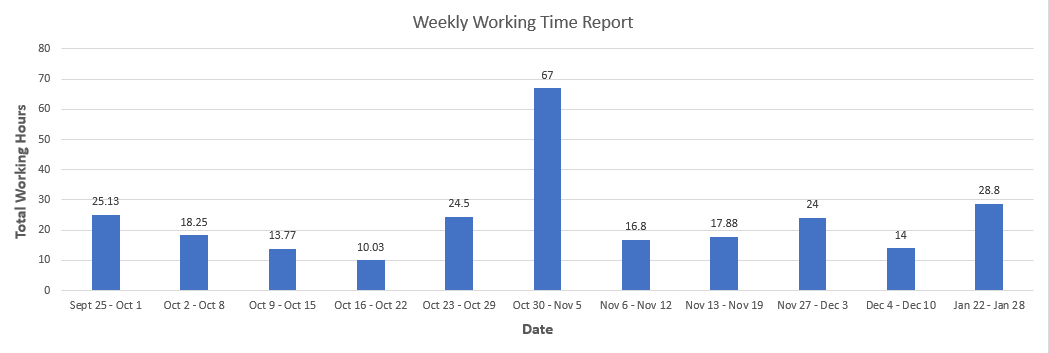
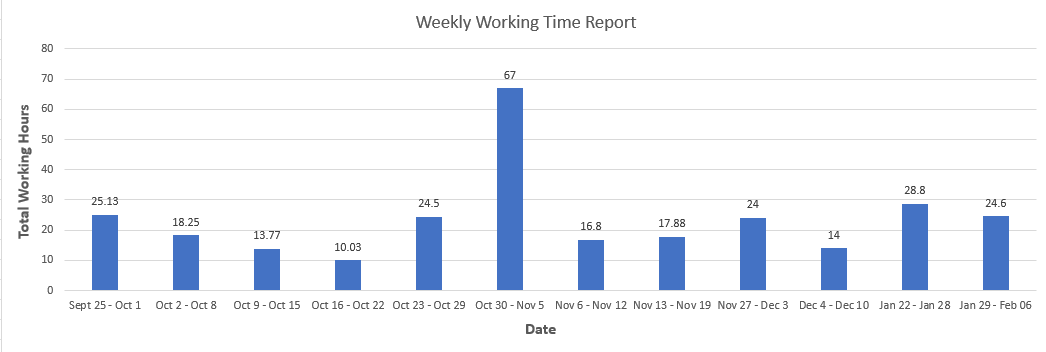
updated teamwebsite

diff --git a/processmetrics.html b/processmetrics.html
@@ -44,7 +44,7 @@
             <strong>Active Code Branche:</strong>
             <br> The number of active branches in source control. It can give insights into the parallel development efforts.
             <br>
-            <strong>There are currently 8 active branches right now in our wexenergy_app github repo.</strong> 
+            <strong>There are currently 13 active branches right now in our wexenergy_app github repo.</strong> 
             <br>
             <img src="images/Branches.png" alt="Branches">
 

diff --git a/timetracking.html b/timetracking.html
@@ -19,7 +19,7 @@
             <a href="contacts.html">Contact</a>
         </nav>
         <h1>Work Time Trackings</h1>
-        <h2>Work Hours from from September 25th to November 19th</h2>
+        <h2>Work Hours from from January 29th to February 6th</h2>
         <h3>Illustration of Work Hours For Each Week: </h3>
         <img src="images/WeeklyReportBarChart.png" alt="Work hours from September 25th to November 19th">
       
